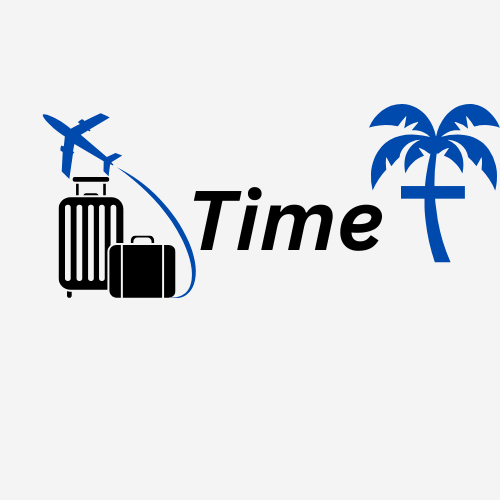
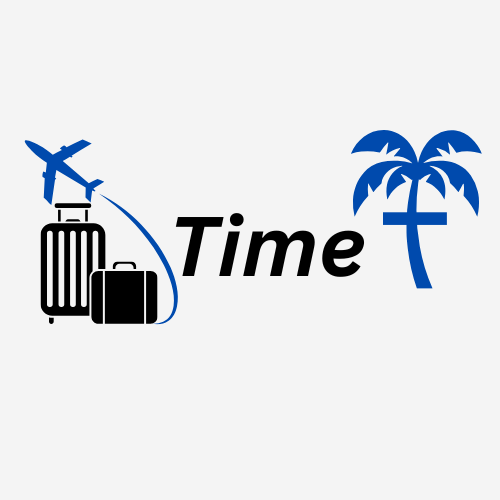
Updates to the asset images

Changed region(s): [[0.03, 0.21, 1.0, 0.66], [0.3, 0.39, 0.33, 0.42], [0.27, 0.36, 0.3, 0.39]]

diff --git a/index.html b/index.html
@@ -279,9 +279,9 @@
         <div class="article-container" id="contain">
             <article id="time_t">
             <p class="in-progress">In Progress</p>
-            <img src="./assets/Timet.png" alt="" class="icon fadein" id="thisicon"/>
+            <img src="./assets/TimeT.png" alt="" class="icon fadein" id="thisicon"/>
             <br><br><br>
-          <h4 class="project-sub-title">Time t</h4>
+          <h4 class="project-sub-title">Time T</h4>
           <p class="projectdesc fadein" id="pdesc">Time t is a full stack AI Trip planner that generates personalized trip advice for any destination worldwide with the provided criteria(Budget, number of days of travel, number of people) etc.<br><br>This full stack app is being built using React JS, MongoDB, TailwindCSS, shadcn/ui, Firebase, and the Google Gemini AI.<br><br> Time t features various features such as Google place autocomplete, intelligent place filtering according to budget, a log of previous destination searches among many other features available on the App.</p>
           <!-- <div class="btn-container">
             <button
